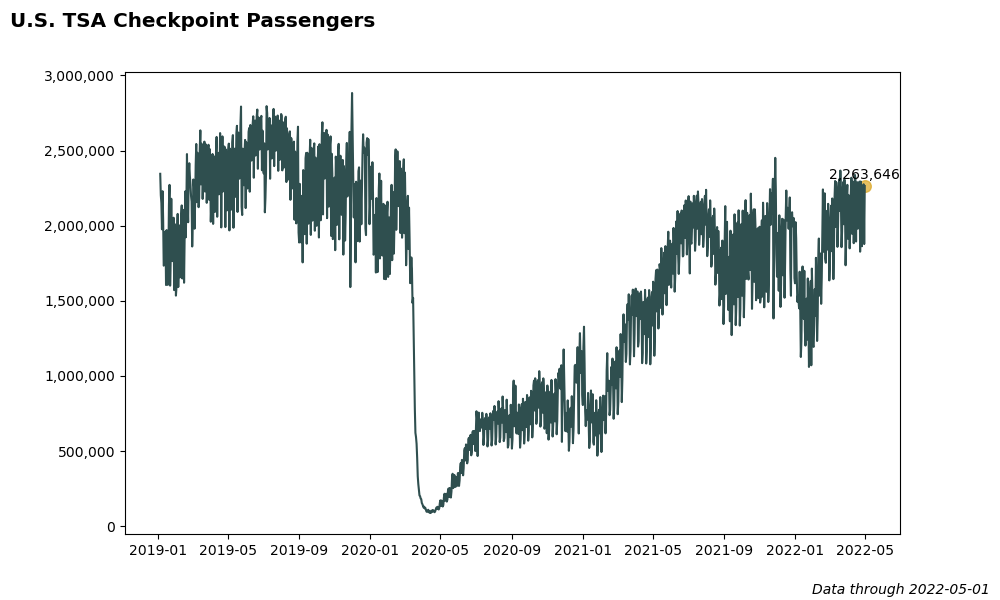
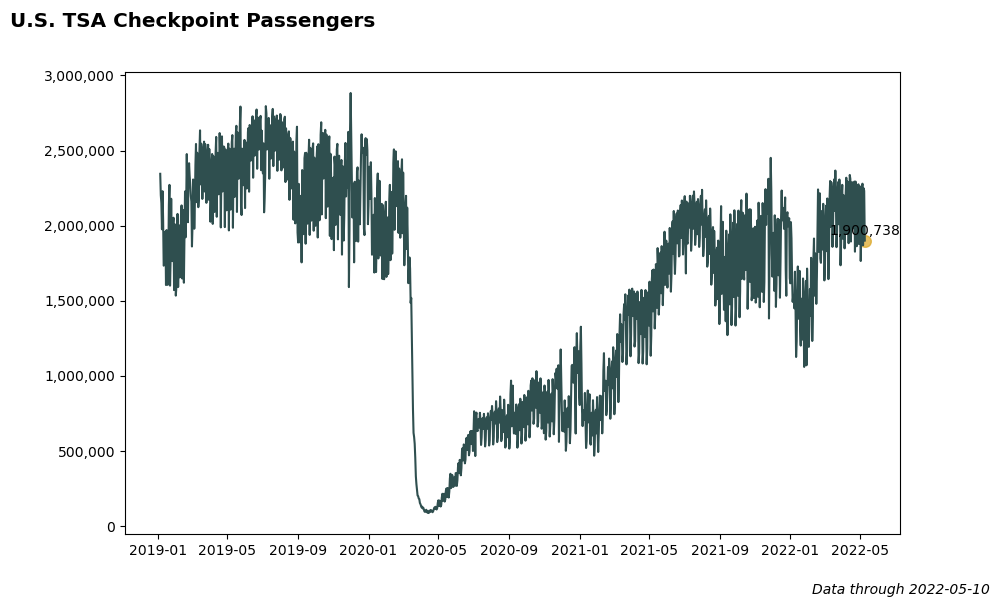
Updating TSA data.

diff --git a/projects/tsa/plotting-tsa-data-in-tableau.html b/projects/tsa/plotting-tsa-data-in-tableau.html
@@ -46,8 +46,8 @@
     <p>Below is a Tableau dashboard of the TSA passenger data. This dashboard is also available on Tableau Public <a href="https://public.tableau.com/app/profile/bbgatch/viz/TSACheckpointPassengerTrends/TSACheckpointPassengerTrends">here</a>.</p>
     
     <!-- Code to embed Tableau dashboard -->
-    <div class='tableauPlaceholder' id='viz1645977310222' style='position: relative'><object class='tableauViz'  style='display:none;'><param name='host_url' value='https%3A%2F%2Fpublic.tableau.com%2F' /> <param name='embed_code_version' value='3' /> <param name='site_root' value='' /><param name='name' value='TSACheckpointPassengerTrends&#47;TSACheckpointPassengersFullTrend' /><param name='tabs' value='yes' /><param name='toolbar' value='yes' /><param name='animate_transition' value='yes' /><param name='display_static_image' value='yes' /><param name='display_spinner' value='yes' /><param name='display_overlay' value='yes' /><param name='display_count' value='yes' /><param name='language' value='en-US' /><param name='filter' value='publish=yes' /></object></div>                <script type='text/javascript'>                    var divElement = document.getElementById('viz1645977310222');                    var vizElement = divElement.getElementsByTagName('object')[0];                    if ( divElement.offsetWidth > 800 ) { vizElement.style.minWidth='420px';vizElement.style.maxWidth='1500px';vizElement.style.width='100%';vizElement.style.minHeight='610px';vizElement.style.maxHeight='950px';vizElement.style.height=(divElement.offsetWidth*0.75)+'px';} else if ( divElement.offsetWidth > 500 ) { vizElement.style.minWidth='420px';vizElement.style.maxWidth='1500px';vizElement.style.width='100%';vizElement.style.minHeight='610px';vizElement.style.maxHeight='950px';vizElement.style.height=(divElement.offsetWidth*0.75)+'px';} else { vizElement.style.width='100%';vizElement.style.height='750px';}                     var scriptElement = document.createElement('script');                    scriptElement.src = 'https://public.tableau.com/javascripts/api/viz_v1.js';                    vizElement.parentNode.insertBefore(scriptElement, vizElement);                </script>
-
+    <div class='tableauPlaceholder' id='viz1652318482309' style='position: relative'><noscript><a href='#'><img alt=' ' src='https:&#47;&#47;public.tableau.com&#47;static&#47;images&#47;TS&#47;TSACheckpointPassengerTrends&#47;FullTrend&#47;1_rss.png' style='border: none' /></a></noscript><object class='tableauViz'  style='display:none;'><param name='host_url' value='https%3A%2F%2Fpublic.tableau.com%2F' /> <param name='embed_code_version' value='3' /> <param name='site_root' value='' /><param name='name' value='TSACheckpointPassengerTrends&#47;FullTrend' /><param name='tabs' value='yes' /><param name='toolbar' value='yes' /><param name='static_image' value='https:&#47;&#47;public.tableau.com&#47;static&#47;images&#47;TS&#47;TSACheckpointPassengerTrends&#47;FullTrend&#47;1.png' /> <param name='animate_transition' value='yes' /><param name='display_static_image' value='yes' /><param name='display_spinner' value='yes' /><param name='display_overlay' value='yes' /><param name='display_count' value='yes' /><param name='language' value='en-US' /></object></div>                <script type='text/javascript'>                    var divElement = document.getElementById('viz1652318482309');                    var vizElement = divElement.getElementsByTagName('object')[0];                    if ( divElement.offsetWidth > 800 ) { vizElement.style.minWidth='420px';vizElement.style.maxWidth='1500px';vizElement.style.width='100%';vizElement.style.minHeight='610px';vizElement.style.maxHeight='950px';vizElement.style.height=(divElement.offsetWidth*0.75)+'px';} else if ( divElement.offsetWidth > 500 ) { vizElement.style.minWidth='420px';vizElement.style.maxWidth='1500px';vizElement.style.width='100%';vizElement.style.minHeight='610px';vizElement.style.maxHeight='950px';vizElement.style.height=(divElement.offsetWidth*0.75)+'px';} else { vizElement.style.width='100%';vizElement.style.height='750px';}                     var scriptElement = document.createElement('script');                    scriptElement.src = 'https://public.tableau.com/javascripts/api/viz_v1.js';                    vizElement.parentNode.insertBefore(scriptElement, vizElement);                </script>
+    
     <!-- Footer --------------------------------------------------------------->
     <footer>
       <a href="https://twitter.com/bbgatch"><img src="../../images/twitter-logo.png" alt="Twitter logo.", width="30"></a>
